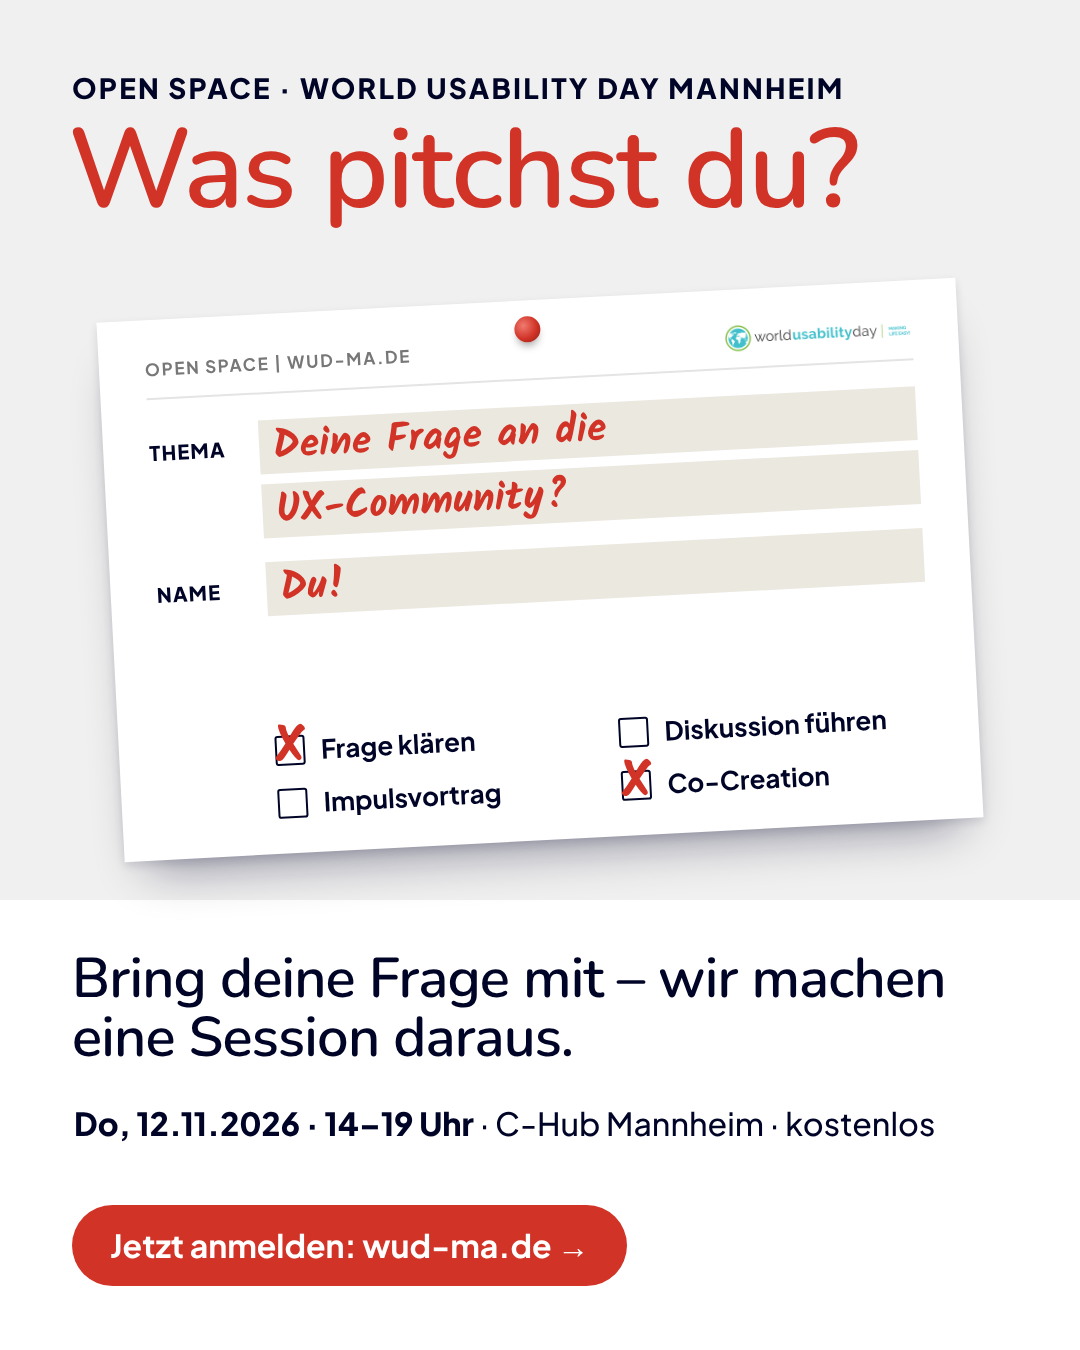
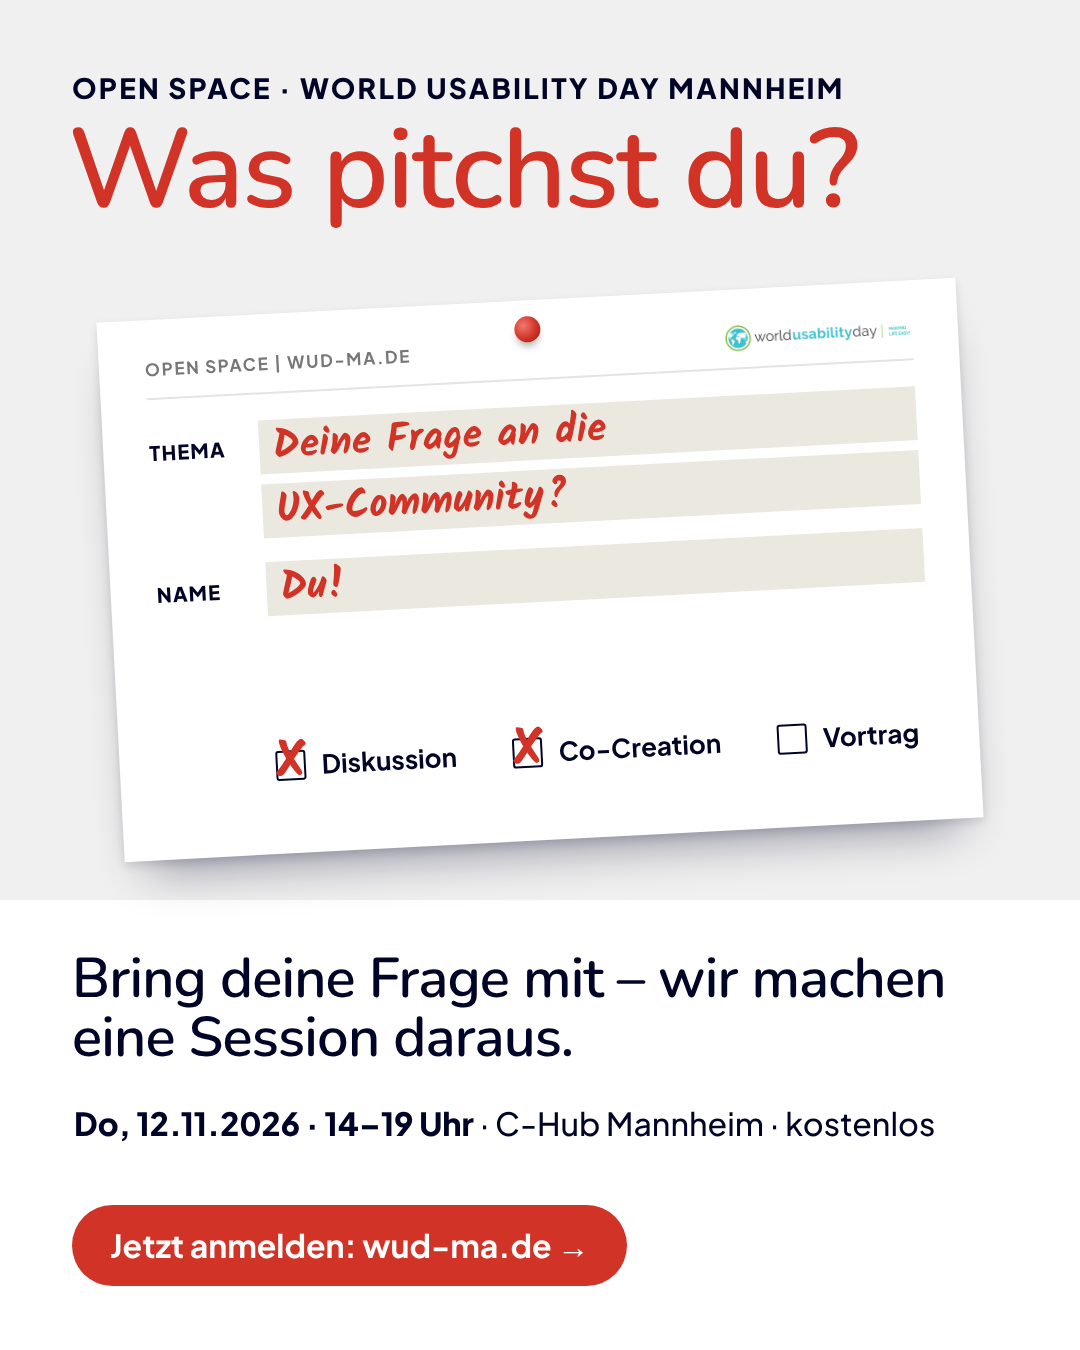
Session-Kategorien auf Diskussion, Co-Creation, Vortrag umgestellt
In allen Newslettern, Marketing-Texten, im Flyer und in der Session-Card-Grafik.

Claude-Session: https://claude.ai/code/session_01FdBpF3p1XTs9Kowkd1XXbf

Changed region(s): [[0.2444, 0.5289, 0.8556, 0.6222]]

diff --git a/assets/src/session-card-post.html b/assets/src/session-card-post.html
@@ -24,7 +24,7 @@
   .bars { flex: 1; }
   .bar { height: 54px; background: var(--note); margin-bottom: 10px; display: flex; align-items: center; padding-left: 14px;
          font-family: var(--font-hand); font-weight: 700; font-size: 40px; color: var(--red); white-space: nowrap; }
-  .checks { position: absolute; left: 156px; right: 46px; bottom: 34px; display: grid; grid-template-columns: 1fr 1fr; gap: 20px 30px; }
+  .checks { position: absolute; left: 156px; right: 46px; bottom: 72px; display: flex; gap: 56px; }
   .check { display: flex; align-items: center; gap: 16px; font-size: 26px; font-weight: 600; color: var(--navy); position: relative; }
   .box { flex: none; width: 30px; height: 30px; border: 2.5px solid var(--navy); border-radius: 3px; position: relative; }
   .x { position: absolute; left: -2px; top: -14px; font-family: var(--font-hand); font-weight: 700; font-size: 50px; color: var(--red); line-height: 1; }
@@ -53,10 +53,9 @@
       <div class="bars"><div class="bar">Du!</div></div>
     </div>
     <div class="checks">
-      <div class="check"><span class="box"><span class="x">X</span></span>Frage klären</div>
-      <div class="check"><span class="box"></span>Diskussion führen</div>
-      <div class="check"><span class="box"></span>Impulsvortrag</div>
+      <div class="check"><span class="box"><span class="x">X</span></span>Diskussion</div>
       <div class="check"><span class="box"><span class="x">X</span></span>Co-Creation</div>
+      <div class="check"><span class="box"></span>Vortrag</div>
     </div>
   </div>
 

diff --git a/assets/src/flyer-a5.html b/assets/src/flyer-a5.html
@@ -91,7 +91,7 @@
     <p class="lead">Beim World Usability Day Mannheim gibt es kein festes Programm. Im <b>Open Space</b> bringen alle ihre Fragen, Ideen und Erfahrungen mit – und gestalten die Agenda gemeinsam.</p>
 
     <div class="steps">
-      <div class="step"><div class="num">1</div><div><h3>Session pitchen</h3><p>Frage, Diskussion, Impuls oder Co-Creation – Session Card ausfüllen und in 1–2 Min. vorstellen.</p></div></div>
+      <div class="step"><div class="num">1</div><div><h3>Session pitchen</h3><p>Diskussion, Co-Creation oder Vortrag – Session Card ausfüllen und in 1–2 Min. vorstellen.</p></div></div>
       <div class="step"><div class="num">2</div><div><h3>Gemeinsam planen</h3><p>Die Gruppe entscheidet, welche Sessions wann und wo stattfinden.</p></div></div>
       <div class="step"><div class="num">3</div><div><h3>Du entscheidest</h3><p>Wähle frei, wo du mitmachst – und wechsle, wann immer du willst.</p></div></div>
       <div class="step"><div class="num">4</div><div><h3>Mitten drin</h3><p>Keine Zuschauer:innen: Alle diskutieren mit und lernen voneinander.</p></div></div>

diff --git a/marketing-texte/open-space-format.md b/marketing-texte/open-space-format.md
@@ -5,7 +5,7 @@ Kernbotschaft: **Beim WUD Mannheim gibt es keine Zuschauer:innen, nur Teilnehmen
 Drei Dinge, die in jeder Erklärung vorkommen sollten:
 1. **Ihr macht das Programm** – Sessions werden am Tag selbst gepitcht und geplant.
 2. **Mitmachen heißt nicht vortragen** – eine Session zu halten ist freiwillig; Fragen stellen, mitdiskutieren oder eine Session gemeinsam gestalten zählt genauso.
-3. **Jede Form ist willkommen** – auf der Session Card kreuzt man an: Frage klären, Diskussion führen, Impulsvortrag oder Co-Creation.
+3. **Jede Form ist willkommen** – auf der Session Card kreuzt man an: Diskussion, Co-Creation oder Vortrag.
 
 ---
 
@@ -18,12 +18,12 @@ Drei Dinge, die in jeder Erklärung vorkommen sollten:
 
 ## S – Kurztext (ca. 250 Zeichen)
 
-Beim WUD Mannheim gibt es kein vorgegebenes Programm. Wie bei einem Barcamp pitchen die Teilnehmenden zu Beginn ihre Sessions – ob Frage, Diskussion, Impuls oder Co-Creation – und bauen daraus gemeinsam die Agenda. Du entscheidest, wo du mitmachst.
+Beim WUD Mannheim gibt es kein vorgegebenes Programm. Wie bei einem Barcamp pitchen die Teilnehmenden zu Beginn ihre Sessions – ob Diskussion, Co-Creation oder Vortrag – und bauen daraus gemeinsam die Agenda. Du entscheidest, wo du mitmachst.
 
 ## M – Mittlerer Text (ca. 650 Zeichen)
 
 **So funktioniert Open Space**
-Der WUD Mannheim ist eine kleine Unconference: Das Programm steht nicht vorher fest, sondern entsteht am Tag selbst. Zu Beginn kann jede:r eine Session vorschlagen – eine Frage klären, eine Diskussion führen, einen Impulsvortrag halten oder gemeinsam etwas erarbeiten – und sie in 1–2 Minuten pitchen. Dafür füllst du eine Session Card aus; die Karten landen auf dem Session Board und werden auf Räume und Zeiten verteilt.
+Der WUD Mannheim ist eine kleine Unconference: Das Programm steht nicht vorher fest, sondern entsteht am Tag selbst. Zu Beginn kann jede:r eine Session vorschlagen – eine Diskussion anstoßen, gemeinsam etwas erarbeiten (Co-Creation) oder einen kurzen Vortrag halten – und sie in 1–2 Minuten pitchen. Dafür füllst du eine Session Card aus; die Karten landen auf dem Session Board und werden auf Räume und Zeiten verteilt.
 
 Danach wählst du frei, wo du mitmachst, und kannst jederzeit wechseln. Eine eigene Session ist kein Muss: Wer Fragen stellt, mitdiskutiert oder eine Session gemeinsam mit anderen gestaltet, ist genauso Teil des Programms.
 
@@ -42,10 +42,9 @@ Die meisten Konferenzen folgen demselben Muster: Bühne vorne, Publikum hinten, 
 
 **Welche Sessions es geben kann**
 Auf der Session Card kreuzt du an, was du vorhast:
-- **Frage klären:** Du hast eine konkrete Frage aus deinem Alltag und holst dir Antworten aus der Runde.
-- **Diskussion führen:** Du bringst ein Thema mit und sammelst Meinungen und Erfahrungen.
-- **Impulsvortrag:** Du teilst ein Projekt, eine Methode oder eine Erkenntnis in einem kurzen Input – danach wird diskutiert.
+- **Diskussion:** Du bringst ein Thema oder eine offene Frage mit und sammelst Meinungen und Erfahrungen aus der Runde.
 - **Co-Creation:** Ihr erarbeitet gemeinsam etwas, z. B. ein Konzept, eine Checkliste oder eine Lösungsskizze.
+- **Vortrag:** Du teilst ein Projekt, eine Methode oder eine Erkenntnis in einem kurzen Input – danach wird diskutiert.
 
 **Die fünf Prinzipien**
 - Wer auch immer kommt, es sind die richtigen Leute.
@@ -93,7 +92,7 @@ Nein. Eine Session zu halten ist freiwillig. Teilnehmen heißt bei uns: Fragen s
 Kannst du nutzen, musst du aber nicht. Für die meisten Sessions reichen Flipchart, Post-its und gute Fragen.
 
 **Was für Sessions gibt es?**
-Vier Formate stehen auf der Session Card: Frage klären, Diskussion führen, Impulsvortrag und Co-Creation – Mehrfachkreuze sind erlaubt.
+Drei Formate stehen auf der Session Card: Diskussion, Co-Creation und Vortrag – Mehrfachkreuze sind erlaubt.
 
 **Wie lange dauert eine Session?**
 Eine Session-Runde dauert bis zu einer Stunde. Wenn das Thema früher erschöpft ist, ist es vorbei – und das ist völlig okay.
@@ -114,7 +113,7 @@ Beim World Usability Day Mannheim am 12.11. gibt es kein festes Programm – und
 3⃣ Du entscheidest, wo du mitmachst
 4⃣ Passt nicht? Gesetz der zwei Füße – einfach wechseln
 
-Frage klären, Diskussion führen, Impulsvortrag oder Co-Creation – alles ist willkommen. Und wer keine eigene Session hat, bringt Fragen und Erfahrungen mit.
+Diskussion, Co-Creation oder Vortrag – alles ist willkommen. Und wer keine eigene Session hat, bringt Fragen und Erfahrungen mit.
 
 Wer das UXcamp Europe kennt, weiß, wie viel Energie in so einem Format steckt. Jetzt gibt’s das als Nachmittag in Mannheim.
 

diff --git a/newsletter/01-angemeldete-weitersagen.md b/newsletter/01-angemeldete-weitersagen.md
@@ -28,7 +28,7 @@ Unser Open Space wird umso besser, je unterschiedlicher die Leute sind, die zusa
 Die Teilnahme ist kostenlos, die Plätze sind aber begrenzt. Wer schnell ist, ist dabei.
 
 **Schon eine Session-Idee?**
-Beim WUD Mannheim gestaltet ihr das Programm selbst: Zu Beginn kann jede:r in 1–2 Minuten eine Session pitchen – ob du eine Frage klären, eine Diskussion führen, einen Impulsvortrag halten oder gemeinsam etwas erarbeiten willst (Co-Creation). Du musst kein:e Expert:in sein. „Ich habe da ein Problem und würde gerne hören, wie ihr das löst“ ist ein großartiger Pitch.
+Beim WUD Mannheim gestaltet ihr das Programm selbst: Zu Beginn kann jede:r in 1–2 Minuten eine Session pitchen – als Diskussion, als Co-Creation, bei der ihr gemeinsam etwas erarbeitet, oder als kurzer Vortrag. Du musst kein:e Expert:in sein. „Ich habe da ein Problem und würde gerne hören, wie ihr das löst“ ist ein großartiger Pitch.
 
 Ein paar Themen, die schon im Raum stehen: Measuring the ROI of UX, Chancen von Figma Make, Accessibility, DesignOps … und was bewegt dich gerade?
 

diff --git a/newsletter/03-sessions-mitmachen.md b/newsletter/03-sessions-mitmachen.md
@@ -39,10 +39,9 @@ Das Spannende daran: Viele dieser Sessions haben nicht mit einer fertigen Antwor
 **So einfach geht’s**
 Vor Ort bekommst du eine **Session Card**. Darauf schreibst du dein Thema, deinen Namen – und kreuzt an, was du vorhast:
 
-- ☐ **Frage klären** – Du hast eine Frage aus deinem Alltag und holst dir Antworten aus der Runde.
-- ☐ **Diskussion führen** – Du bringst ein Thema mit, zu dem du Meinungen und Erfahrungen sammeln willst.
-- ☐ **Impulsvortrag** – Du teilst ein Projekt, eine Methode oder eine Erkenntnis in einem kurzen Input.
+- ☐ **Diskussion** – Du bringst ein Thema oder eine offene Frage mit und sammelst Meinungen und Erfahrungen aus der Runde.
 - ☐ **Co-Creation** – Ihr erarbeitet gemeinsam etwas: ein Konzept, eine Checkliste, eine Lösungsskizze.
+- ☐ **Vortrag** – Du teilst ein Projekt, eine Methode oder eine Erkenntnis in einem kurzen Input – danach wird diskutiert.
 
 Mehrere Kreuze? Kein Problem. Dann stellst du deine Idee in 1–2 Minuten vor, die Karte kommt aufs Board und bekommt einen Raum und eine Uhrzeit. Fertig.
 

diff --git a/newsletter/04-reminder-1-woche.md b/newsletter/04-reminder-1-woche.md
@@ -33,7 +33,7 @@ Donnerstag, 12. November 2026, 14:00–19:00 Uhr (danach gemütlicher Ausklang)
 - ab 18:00 – Get Together mit Bier, Snacks und guten Gesprächen
 
 **🎤 Tipp: Bereite deinen Pitch vor**
-Das Herzstück des Tages sind die Sessions, die ihr selbst einbringt – ob du eine Frage klären, eine Diskussion führen, einen Impulsvortrag halten oder gemeinsam etwas erarbeiten willst (Co-Creation). Ein Pitch dauert nur 1–2 Minuten, drei Sätze reichen:
+Das Herzstück des Tages sind die Sessions, die ihr selbst einbringt – als Diskussion, als Co-Creation, bei der ihr gemeinsam etwas erarbeitet, oder als kurzer Vortrag. Ein Pitch dauert nur 1–2 Minuten, drei Sätze reichen:
 
 1. **Worum geht’s?** Ein Thema, eine Frage oder ein Projekt in einem Satz.
 2. **Was nehmen die anderen mit?** Eine Methode, neue Perspektiven, gemeinsam erarbeitete Lösungen …

diff --git a/marketing-texte/event-vorstellung.md b/marketing-texte/event-vorstellung.md
@@ -53,7 +53,7 @@ Der World Usability Day Mannheim ist eine Veranstaltung der shift52 GmbH, organi
 
 🌍 Am 12. November ist World Usability Day – und Mannheim ist dabei!
 
-Wir laden die UX-Community der Rhein-Neckar-Region in den C-Hub ein. Das Besondere: Ihr bestimmt das Programm. Im Open-Space-Format pitcht jede:r, die oder der möchte, eine Session-Idee – ob Frage, Diskussion, Impulsvortrag oder Co-Creation. Daraus bauen wir gemeinsam die Agenda.
+Wir laden die UX-Community der Rhein-Neckar-Region in den C-Hub ein. Das Besondere: Ihr bestimmt das Programm. Im Open-Space-Format pitcht jede:r, die oder der möchte, eine Session-Idee – ob Diskussion, Co-Creation oder Vortrag. Daraus bauen wir gemeinsam die Agenda.
 
 Was dich erwartet:
 → Keynote zu aktuellen UX-Trends
